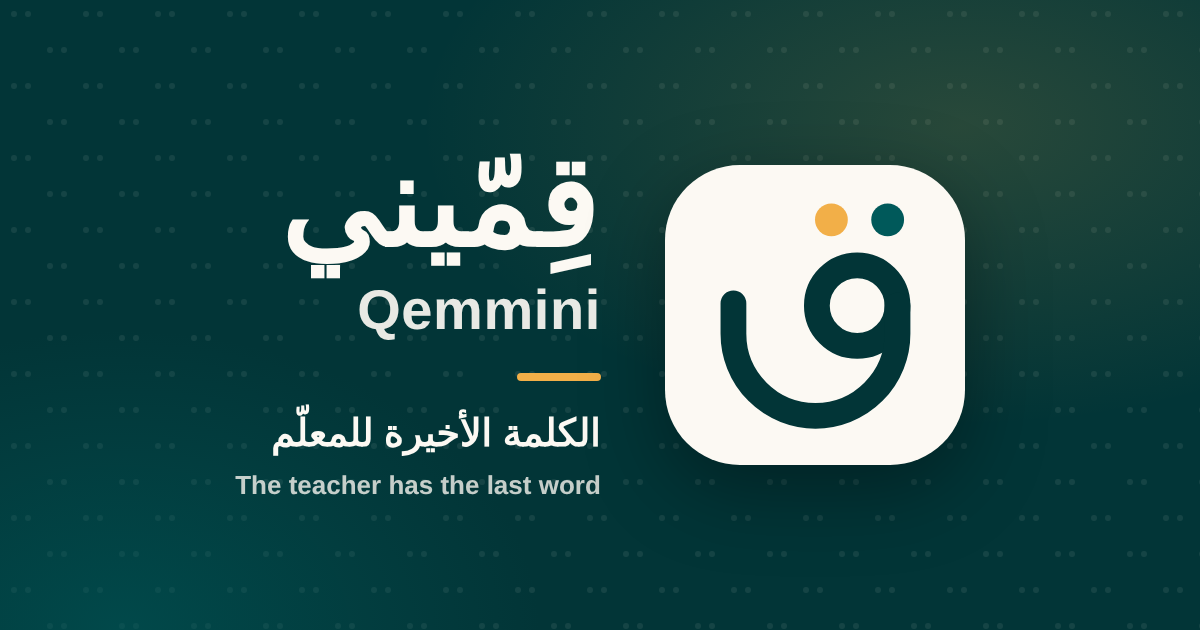
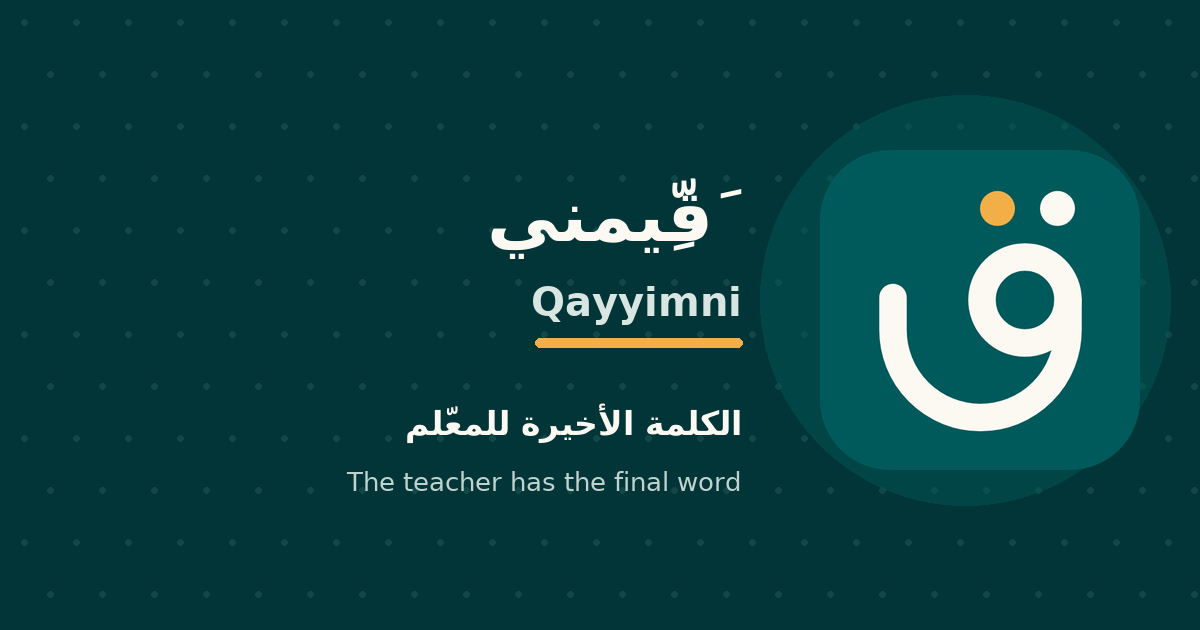
Refresh Qayyimni Arabic brand identity

Changed region(s): [[0.185, 0.0, 0.9867, 0.7841], [0.0925, 0.9952, 0.1233, 1.0]]

diff --git a/src/lib/i18n.tsx b/src/lib/i18n.tsx
@@ -4,7 +4,7 @@ export type Lang = "ar" | "en";
 
 const dict = {
   ar: {
-    brand: "قَيِّمني",
+    brand: "قَيِّمني",
     tagline: "منصة تقييم وتعلم ذكية للمعلم والطالب",
     heroTitle: "تقييم أدق، وقت أقل، وتعلّم يفهم كل طالب",
     heroBody:
@@ -494,7 +494,7 @@ const dict = {
       "نجمع المعلومات التي تقدمها عند إنشاء حسابك، مثل الاسم والبريد الإلكتروني ودورك كمعلم أو طالب، إضافة إلى البيانات الناتجة عن استخدامك للمنصة مثل الاختبارات والإجابات والدرجات والملاحظات.",
     privacyCollectTitle: "البيانات التي نجمعها",
     privacyIntro:
-      "توضح هذه السياسة البيانات التي تجمعها قِمّيني وكيف نستخدمها ونحميها. المنصة مصممة للتعامل مع بيانات الطلاب بحذر، ولا تُعرض النتائج للطالب إلا بعد اعتماد معلمه لها.",
+      "توضح هذه السياسة البيانات التي تجمعها قَيِّمني وكيف نستخدمها ونحميها. المنصة مصممة للتعامل مع بيانات الطلاب بحذر، ولا تُعرض النتائج للطالب إلا بعد اعتماد معلمه لها.",
     privacyRetentionBody:
       "نحتفظ بالبيانات فقط طالما كانت لازمة لتقديم الخدمة أو للوفاء بالتزامات قانونية، ثم تُحذف أو تُجهَّل هويتها.",
     privacyRetentionTitle: "الاحتفاظ بالبيانات",
@@ -528,13 +528,13 @@ const dict = {
       "قد نحدّث هذه الشروط من وقت لآخر، ويعني استمرارك في استخدام المنصة بعد أي تحديث موافقتك على الشروط المحدّثة.",
     termsChangesTitle: "تغيير الشروط",
     termsContentBody:
-      "يحتفظ المعلمون بملكية المحتوى الذي ينشئونه، ويمنحون قِمّيني ترخيصاً لاستضافته وعرضه على طلابهم لغرض تقديم الخدمة فقط. تظل إجابات الطلاب أعمالهم الخاصة، ويطّلع عليها معلموهم لغرض التقييم.",
+      "يحتفظ المعلمون بملكية المحتوى الذي ينشئونه، ويمنحون قَيِّمني ترخيصاً لاستضافته وعرضه على طلابهم لغرض تقديم الخدمة فقط. تظل إجابات الطلاب أعمالهم الخاصة، ويطّلع عليها معلموهم لغرض التقييم.",
     termsContentTitle: "محتوى المعلمين وإجابات الطلاب",
     termsFairUseBody:
       "لا يجوز إساءة استخدام المنصة أو محاولة الوصول إلى بيانات مستخدمين آخرين أو تعطيل الخدمة أو استخدامها لأي غرض غير قانوني.",
     termsFairUseTitle: "الاستخدام المقبول",
     termsIntro:
-      "تنظّم هذه الشروط استخدامك لمنصة قِمّيني، وهي منصة تقييم وتعلّم للمعلمين والطلاب. باستخدامك المنصة فأنت توافق على هذه الشروط.",
+      "تنظّم هذه الشروط استخدامك لمنصة قَيِّمني، وهي منصة تقييم وتعلّم للمعلمين والطلاب. باستخدامك المنصة فأنت توافق على هذه الشروط.",
     termsRolesBody:
       "ينشئ المعلمون الاختبارات ويديرونها ويعتمدون الدرجات، ويجيب الطلاب على الاختبارات المسندة إليهم فقط. القرار النهائي في أي درجة أو نتيجة هو دائماً للمعلم.",
     termsRolesTitle: "الأدوار والمسؤوليات",
@@ -650,7 +650,7 @@ const dict = {
     termsTitle: "شروط الاستخدام",
   },
   en: {
-    brand: "Qemmini",
+    brand: "Qayyimni",
     tagline: "Intelligent assessment and learning for teachers and students",
     heroTitle: "Sharper assessment, less time, learning that understands every student",
     heroBody:
@@ -1149,7 +1149,7 @@ const dict = {
       "We collect information you provide when creating an account, such as your name, email address, and role as teacher or student, plus data generated by your use of the platform, such as assessments, answers, grades, and feedback.",
     privacyCollectTitle: "Data we collect",
     privacyIntro:
-      "This policy explains what data Qemmini collects, how we use it, and how we protect it. The platform is designed to handle student data carefully, and results are shown to a student only after their teacher approves them.",
+      "This policy explains what data Qayyimni collects, how we use it, and how we protect it. The platform is designed to handle student data carefully, and results are shown to a student only after their teacher approves them.",
     privacyRetentionBody:
       "We keep data only as long as needed to provide the service or meet legal obligations, after which it is deleted or anonymised.",
     privacyRetentionTitle: "Data retention",
@@ -1183,13 +1183,13 @@ const dict = {
       "We may update these terms from time to time; continuing to use the platform after an update means you accept the updated terms.",
     termsChangesTitle: "Changes to these terms",
     termsContentBody:
-      "Teachers keep ownership of the content they create and grant Qemmini a licence to host and show it to their students solely to provide the service. Student answers remain the students' own work, viewed by their teachers for assessment purposes.",
+      "Teachers keep ownership of the content they create and grant Qayyimni a licence to host and show it to their students solely to provide the service. Student answers remain the students' own work, viewed by their teachers for assessment purposes.",
     termsContentTitle: "Teacher content and student answers",
     termsFairUseBody:
       "You must not misuse the platform, attempt to access other users' data, disrupt the service, or use it for any unlawful purpose.",
     termsFairUseTitle: "Acceptable use",
     termsIntro:
-      "These terms govern your use of Qemmini, an assessment and learning platform for teachers and students. By using the platform, you agree to these terms.",
+      "These terms govern your use of Qayyimni, an assessment and learning platform for teachers and students. By using the platform, you agree to these terms.",
     termsRolesBody:
       "Teachers create and manage assessments and approve grades; students answer only the assessments assigned to them. The final decision on any grade or result always belongs to the teacher.",
     termsRolesTitle: "Roles and responsibilities",

diff --git a/src/routes/__root.tsx b/src/routes/__root.tsx
@@ -67,18 +67,18 @@ export const Route = createRootRouteWithContext<{ queryClient: QueryClient }>()(
     meta: [
       { charSet: "utf-8" },
       { name: "viewport", content: "width=device-width, initial-scale=1" },
-      { title: "Qemmini · قِمّيني" },
+      { title: "Qayyimni · قَيِّمني" },
       {
         name: "description",
         content: "AI-powered assessment and learning platform for teachers and students in Egypt.",
       },
       { name: "theme-color", content: "#00595a" },
       { property: "og:type", content: "website" },
-      { property: "og:site_name", content: "Qemmini · قِمّيني" },
+      { property: "og:site_name", content: "Qayyimni · قَيِّمني" },
       { property: "og:image", content: "/brand/og-image.png" },
       { property: "og:image:width", content: "1200" },
       { property: "og:image:height", content: "630" },
-      { property: "og:image:alt", content: "Qemmini · قِمّيني — الكلمة الأخيرة للمعلّم" },
+      { property: "og:image:alt", content: "Qayyimni · قَيِّمني — الكلمة الأخيرة للمعلّم" },
       { name: "twitter:card", content: "summary_large_image" },
       { name: "twitter:image", content: "/brand/og-image.png" },
     ],

diff --git a/src/routes/index.tsx b/src/routes/index.tsx
@@ -8,13 +8,13 @@ import { useI18n } from "@/lib/i18n";
 export const Route = createFileRoute("/")({
   head: () => ({
     meta: [
-      { title: "Qemmini · قِمّيني — AI assessment for teachers & students" },
+      { title: "Qayyimni · قَيِّمني — AI assessment for teachers & students" },
       {
         name: "description",
         content:
           "Build assessments, auto-grade objective questions and review AI grading suggestions for written answers. Arabic-first.",
       },
-      { property: "og:title", content: "Qemmini · قِمّيني" },
+      { property: "og:title", content: "Qayyimni · قَيِّمني" },
       {
         property: "og:description",
         content:
@@ -105,7 +105,7 @@ function Landing() {
       </section>
 
       <footer className="border-t py-8 text-center text-sm text-muted-foreground">
-        <p dir="ltr">© {new Date().getFullYear()} Qemmini</p>
+        <p dir="ltr">© {new Date().getFullYear()} Qayyimni</p>
         <nav className="mt-2 flex justify-center gap-4">
           <Link to="/terms" className="hover:underline">
             {t("terms")}

diff --git a/src/routes/privacy.tsx b/src/routes/privacy.tsx
@@ -5,12 +5,12 @@ import { useI18n } from "@/lib/i18n";
 export const Route = createFileRoute("/privacy")({
   head: () => ({
     meta: [
-      { title: "Privacy · Qemmini" },
+      { title: "Privacy · Qayyimni" },
       {
         name: "description",
-        content: "How Qemmini collects, uses and protects account and student data.",
+        content: "How Qayyimni collects, uses and protects account and student data.",
       },
-      { property: "og:title", content: "Privacy · Qemmini" },
+      { property: "og:title", content: "Privacy · Qayyimni" },
       { property: "og:type", content: "website" },
       { name: "twitter:card", content: "summary" },
     ],
@@ -48,7 +48,7 @@ function PrivacyPage() {
         ))}
       </main>
       <footer className="border-t py-8 text-center text-sm text-muted-foreground">
-        <p>© {new Date().getFullYear()} Qemmini</p>
+        <p>© {new Date().getFullYear()} Qayyimni</p>
         <nav className="mt-2 flex justify-center gap-4">
           <Link to="/" className="hover:underline">
             {t("backHome")}

diff --git a/src/routes/terms.tsx b/src/routes/terms.tsx
@@ -5,12 +5,12 @@ import { useI18n } from "@/lib/i18n";
 export const Route = createFileRoute("/terms")({
   head: () => ({
     meta: [
-      { title: "Terms · Qemmini" },
+      { title: "Terms · Qayyimni" },
       {
         name: "description",
-        content: "Terms of use for the Qemmini assessment and learning platform.",
+        content: "Terms of use for the Qayyimni assessment and learning platform.",
       },
-      { property: "og:title", content: "Terms · Qemmini" },
+      { property: "og:title", content: "Terms · Qayyimni" },
       { property: "og:type", content: "website" },
       { name: "twitter:card", content: "summary" },
     ],
@@ -47,7 +47,7 @@ function TermsPage() {
         ))}
       </main>
       <footer className="border-t py-8 text-center text-sm text-muted-foreground">
-        <p>© {new Date().getFullYear()} Qemmini</p>
+        <p>© {new Date().getFullYear()} Qayyimni</p>
         <nav className="mt-2 flex justify-center gap-4">
           <Link to="/" className="hover:underline">
             {t("backHome")}

diff --git a/src/routes/auth.tsx b/src/routes/auth.tsx
@@ -11,10 +11,10 @@ import { useI18n, translateError } from "@/lib/i18n";
 export const Route = createFileRoute("/auth")({
   head: () => ({
     meta: [
-      { title: "Sign in · Qemmini" },
-      { name: "description", content: "Sign in or create a Qemmini account." },
-      { property: "og:title", content: "Sign in · Qemmini" },
-      { property: "og:description", content: "Access your Qemmini account." },
+      { title: "Sign in · Qayyimni" },
+      { name: "description", content: "Sign in or create a Qayyimni account." },
+      { property: "og:title", content: "Sign in · Qayyimni" },
+      { property: "og:description", content: "Access your Qayyimni account." },
       { property: "og:type", content: "website" },
       { name: "twitter:card", content: "summary" },
     ],
@@ -98,7 +98,7 @@ function AuthPage() {
           </p>
         </div>
         <span dir="ltr" className="text-sm opacity-60">
-          © Qemmini
+          © Qayyimni
         </span>
       </aside>
       <main className="flex flex-col p-6">

diff --git a/src/routes/reset-password.tsx b/src/routes/reset-password.tsx
@@ -11,9 +11,9 @@ import { useI18n, translateError } from "@/lib/i18n";
 export const Route = createFileRoute("/reset-password")({
   head: () => ({
     meta: [
-      { title: "Reset password · Qemmini" },
-      { name: "description", content: "Set a new password for your Qemmini account." },
-      { property: "og:title", content: "Reset password · Qemmini" },
+      { title: "Reset password · Qayyimni" },
+      { name: "description", content: "Set a new password for your Qayyimni account." },
+      { property: "og:title", content: "Reset password · Qayyimni" },
       { property: "og:description", content: "Set a new password." },
       { property: "og:type", content: "website" },
       { name: "twitter:card", content: "summary" },

diff --git a/src/routes/_authenticated/dashboard.tsx b/src/routes/_authenticated/dashboard.tsx
@@ -13,8 +13,8 @@ import { Input } from "@/components/ui/input";
 export const Route = createFileRoute("/_authenticated/dashboard")({
   head: () => ({
     meta: [
-      { title: "Dashboard · Qemmini" },
-      { name: "description", content: "Your Qemmini dashboard." },
+      { title: "Dashboard · Qayyimni" },
+      { name: "description", content: "Your Qayyimni dashboard." },
     ],
   }),
   component: Dashboard,

diff --git a/src/routes/_authenticated/assessments.generate.tsx b/src/routes/_authenticated/assessments.generate.tsx
@@ -43,7 +43,7 @@ import { ocrSourceImages } from "@/server/source-ocr";
 export const Route = createFileRoute("/_authenticated/assessments/generate")({
   head: () => ({
     meta: [
-      { title: "Generate assessment · Qemmini" },
+      { title: "Generate assessment · Qayyimni" },
       { name: "description", content: "Generate a draft assessment from pasted curriculum text." },
     ],
   }),

diff --git a/src/routes/_authenticated/assessments.take.$id.tsx b/src/routes/_authenticated/assessments.take.$id.tsx
@@ -36,7 +36,7 @@ type AnswerRow = Database["public"]["Tables"]["answers"]["Row"];
 export const Route = createFileRoute("/_authenticated/assessments/take/$id")({
   head: () => ({
     meta: [
-      { title: "Take assessment · Qemmini" },
+      { title: "Take assessment · Qayyimni" },
       { name: "description", content: "Answer a published assessment assigned to you." },
     ],
   }),

diff --git a/src/routes/_authenticated/assessments.$id.tsx b/src/routes/_authenticated/assessments.$id.tsx
@@ -20,7 +20,7 @@ type Status = Database["public"]["Enums"]["assessment_status"];
 export const Route = createFileRoute("/_authenticated/assessments/$id")({
   head: () => ({
     meta: [
-      { title: "Assessment builder · Qemmini" },
+      { title: "Assessment builder · Qayyimni" },
       { name: "description", content: "Edit questions, answer keys and assignments." },
     ],
   }),

diff --git a/src/routes/_authenticated/tutor.tsx b/src/routes/_authenticated/tutor.tsx
@@ -36,7 +36,7 @@ type ChatMsg = { role: "user" | "assistant"; content: string };
 export const Route = createFileRoute("/_authenticated/tutor")({
   head: () => ({
     meta: [
-      { title: "Smart tutor · Qemmini" },
+      { title: "Smart tutor · Qayyimni" },
       {
         name: "description",
         content: "Step-by-step explanations, hints and personal review plans.",
